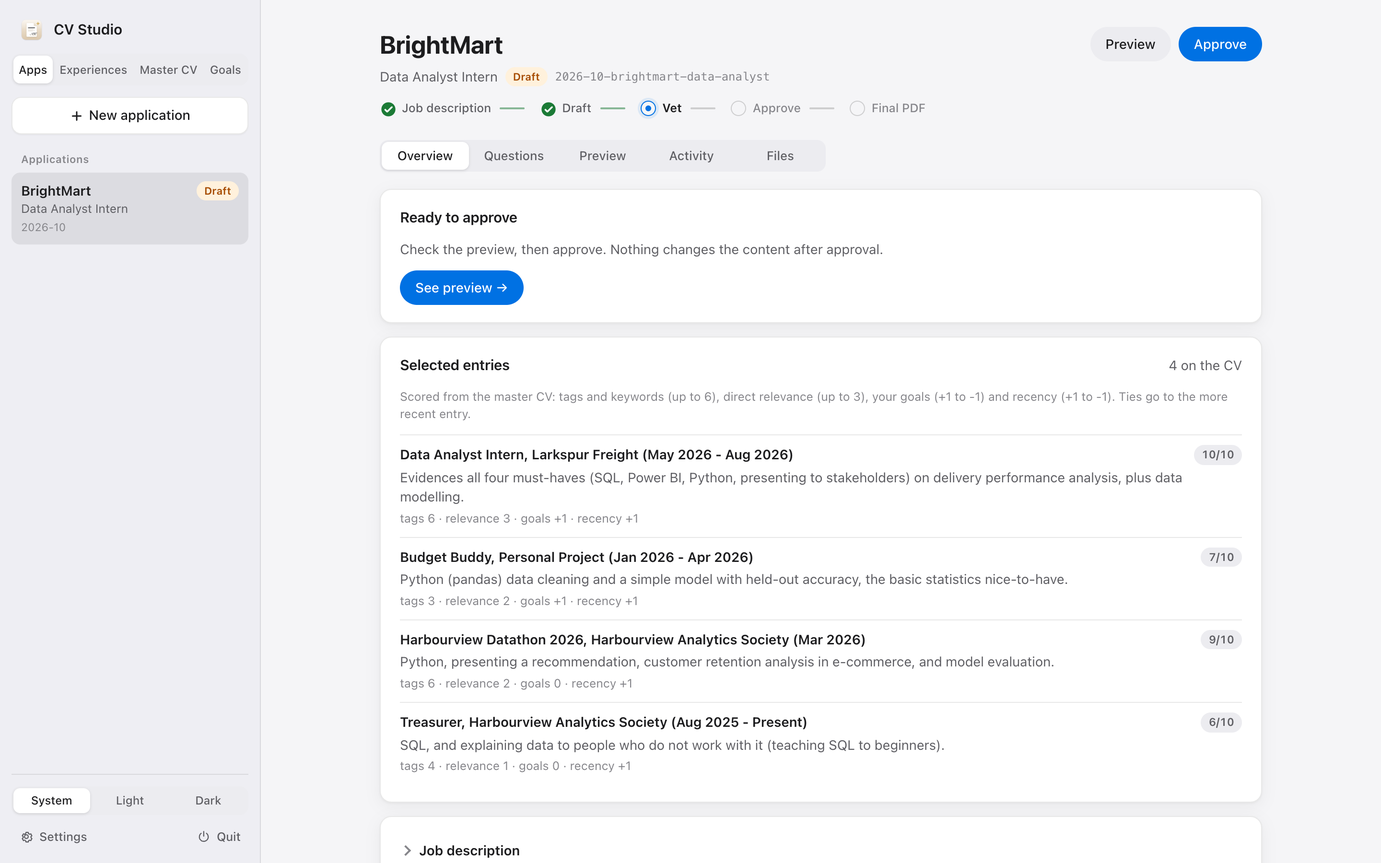
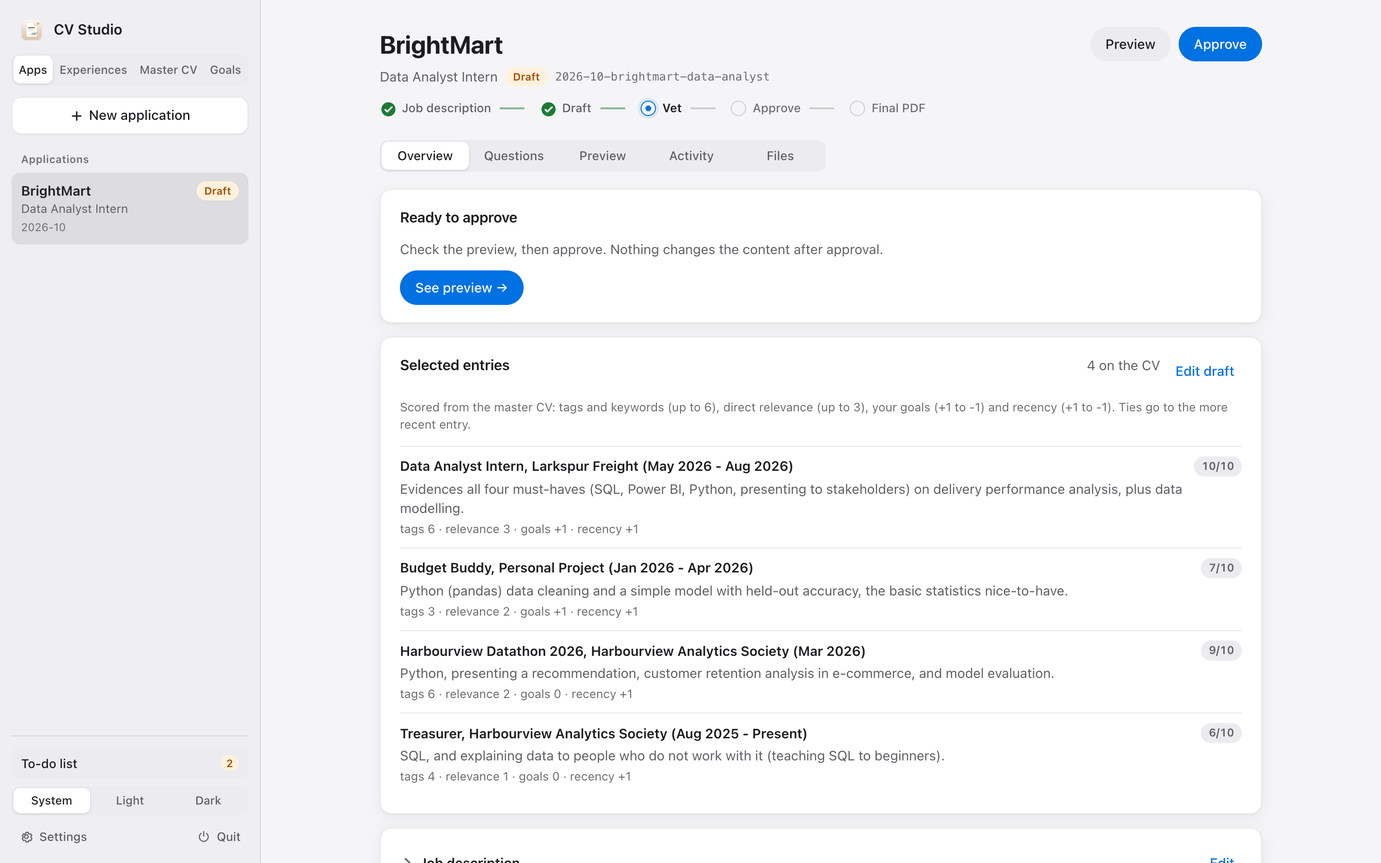
CV Studio: clarity pass
Plain names on run buttons (Draft my CV, Update CV entry), with the
agent named in a tooltip. An agent's final message shows as a short
list, the raw text one click away. Every label explains itself on
hover, and the sidebar uses the master CV's section names. Finishing an
interview with nothing answered offers to just close it. A new user is
sent to add an experience first, and an application can't be created
on an empty master CV. Unknown links say so, the offline banner has Try
now, the shortcut hint matches the keyboard, and grey text, primary
buttons and the download button pass contrast. Screenshots retaken.

diff --git a/tools/ui/app.js b/tools/ui/app.js
@@ -24,6 +24,7 @@ const EXP_STATE = {
   updated: ["Update to curate", "draft"],   // in the master CV, but the notes changed since
 };
 const CHANGE_RE = /^Change requested in (UI|chat)$/;
+const MOD = /Mac|iPhone|iPad/.test(navigator.platform) ? "⌘↩" : "Ctrl+Enter";
 
 let apps = [];
 let active = {};
@@ -133,6 +134,24 @@ async function backOnline() {
   toast("Reconnected to CV Studio", { type: "ok" });
   await loadList().catch(() => {});
   if (current) reopen(current).catch(() => {});
+}
+
+/* ---------- what an agent said, readable ---------- */
+
+const SAID = { "interview.md": "Interview record", "index.md": "Notes", "thin": "Still thin", "closes": "Closes", "tracker": "Added to your to-do list",
+  "master-cv.md": "Master CV", "quantify?": "Needs numbers", "new tags": "New tags", "skipped": "Skipped", "open": "Question for you",
+  "proposal": "Proposal", "changed": "Changed", "kept": "Kept", "not done": "Not done", "extraction.md": "Draft", "questions": "Questions" };
+
+/** An agent's final message: its "label: value" lines as a short list (dropping the "none" ones), the full text under a toggle. */
+function agentSaid(message) {
+  const rows = [];
+  for (const line of (message || "").split("\n")) {
+    const m = line.match(/^\s*([A-Za-z.?\- ]{2,24}):\s*(.+)$/);
+    if (m && !/^none\b/i.test(m[2].trim())) rows.push([SAID[m[1].trim().toLowerCase()] || m[1].trim(), m[2].trim()]);
+  }
+  const raw = el("details", { class: "raw-said" }, el("summary", { text: "Show exactly what the agent wrote" }), el("pre", { class: "said", text: message }));
+  if (!rows.length) return el("div", {}, el("pre", { class: "said", text: message }));
+  return el("div", {}, el("dl", { class: "said-table" }, ...rows.flatMap(([k, v]) => [el("dt", { text: k }), el("dd", {}, inline(v))])), raw);
 }
 
 /* ---------- toasts, dialogs, busy buttons ---------- */
@@ -351,7 +370,7 @@ function headerActions(d, running) {
   const ext = d.extraction;
   const out = [];
   if (d.state === "jd only") {
-    out.push(el("button", { class: "btn primary", disabled: running, onclick: (e) => runAction("extract", {}, e.currentTarget, "Starting…") }, "Run extractor"));
+    out.push(el("button", { class: "btn primary", disabled: running, title: "The extractor reads the job description and your master CV and drafts a tailored CV with questions for you. A few minutes.", onclick: (e) => runAction("extract", {}, e.currentTarget, "Starting…") }, "Draft my CV"));
   }
   if (d.state === "draft") {
     out.push(el("button", { class: "btn", disabled: running, onclick: (e) => runAction("preview", {}, e.currentTarget, "Rendering…", "preview") }, "Preview"));
@@ -487,8 +506,8 @@ function resultCard(job) {
     icon = svg(ICON.check, "res-icon ok");
     title = k.done;
     sub = `Finished in ${fmtTime(job.ended - job.started)}`;
-    if (job.result && job.result.interviewer) body.push(el("pre", { class: "said", text: job.result.interviewer }));
-    if (job.result && job.result.message) body.push(el("pre", { class: "said", text: job.result.message }));
+    if (job.result && job.result.interviewer) body.push(agentSaid(job.result.interviewer));
+    if (job.result && job.result.message) body.push(agentSaid(job.result.message));
     if (job.result && job.result.new_tags) body.push(el("div", { class: "banner warn" }, el("div", { class: "grow", text: `New tag added to CLAUDE.md: ${job.result.new_tags}. Keep it, or Undo the change to veto it.` })));
     if (job.result && job.result.dropped && job.result.dropped.length) {
       body.push(el("div", { class: "hint", text: `To fit one page, ${job.result.dropped.length} bullet${job.result.dropped.length > 1 ? "s were" : " was"} trimmed: ${job.result.dropped.map((x) => `${x.entry} (“${x.bullet.split(" ").slice(0, 6).join(" ")}…”)`).join("; ")}.` }));
@@ -564,7 +583,7 @@ function viewOverview() {
   if (d.state === "jd only" && !running) {
     next = emptyState("Ready to draft your CV",
       "The extractor reads this job description and your master CV, then drafts a tailored CV with questions for you. It runs on your Claude login and takes a few minutes.",
-      el("button", { class: "btn primary", onclick: (e) => runAction("extract", {}, e.currentTarget, "Starting…") }, "Run extractor"));
+      el("button", { class: "btn primary", title: "The extractor reads the job description and your master CV and drafts a tailored CV with questions for you. A few minutes.", onclick: (e) => runAction("extract", {}, e.currentTarget, "Starting…") }, "Draft my CV"));
   } else if (d.state === "draft") {
     next = el("div", { class: "card next" }, el("h3", { text: ext.unticked ? `${ext.unticked} question${ext.unticked > 1 ? "s" : ""} for you` : "Ready to approve" }),
       el("p", { class: "muted", text: ext.unticked ? "Answer them in your own words. The extractor applies your answers and checks every citation again." : "Check the preview, then approve. Nothing changes the content after approval." }),
@@ -707,8 +726,8 @@ function selectedCard(ext) {
   });
   const canEdit = detail.state === "draft" && !(detail.job && detail.job.status === "running");
   return el("div", { class: "card" }, el("div", { class: "card-head" }, el("h3", { text: "Selected entries" }),
-      el("span", { class: "muted", text: `${entries.length} on the CV` }),
-      canEdit ? el("button", { class: "text-btn", onclick: () => { draftEditing[detail.slug] = true; renderMain(); } }, "Edit draft") : null),
+      el("div", { class: "row-actions" }, el("span", { class: "muted", text: `${entries.length} on the CV` }),
+        canEdit ? el("button", { class: "text-btn", onclick: () => { draftEditing[detail.slug] = true; renderMain(); } }, "Edit draft") : null)),
     el("p", { class: "hint", text: "Scored from the master CV: tags and keywords (up to 6), direct relevance (up to 3), your goals (+1 to -1) and recency (+1 to -1). Ties go to the more recent entry." }),
     ...rows);
 }
@@ -759,12 +778,12 @@ function viewQuestions() {
   wrap.append(card);
   if (editable) {
     wrap.append(el("div", { class: "card other" }, el("h3", { text: "Other changes" }),
-      el("div", { class: "hint", text: "Anything else to change on this CV, e.g. \"capitalise National Team\" or \"drop the parser project\"." }),
+      el("div", { class: "hint", text: "Anything else to change on this CV, e.g. \"drop the oldest project\" or \"lead with the dashboard bullet\"." }),
       el("textarea", { "data-q": "other", "data-key": "other", rows: "2", placeholder: "Optional", "aria-label": "Other changes" })));
     const counter = el("span", { class: "hint", id: "answered" });
-    const saved = el("span", { class: "hint saved", id: "draft-saved", text: "Draft saved" });
+    const saved = el("span", { class: "hint saved", id: "draft-saved", text: "Saved in this browser" });
     wrap.append(el("div", { class: "footer-bar" },
-      el("div", { class: "footer-info" }, counter, el("span", { class: "hint kbd", text: "⌘↩ to apply" }), saved),
+      el("div", { class: "footer-info" }, counter, el("span", { class: "hint kbd", text: `${MOD} to apply` }), saved),
       el("button", { class: "btn primary", id: "apply-btn", onclick: (e) => submitAnswers(e.currentTarget) }, "Apply my answers")));
     for (const ta of wrap.querySelectorAll("textarea[data-key]")) {
       ta.value = store.get(draftKey(d.slug, ta.dataset.key)) || "";
@@ -845,7 +864,7 @@ function viewLog() {
   if (!job) return emptyState("Nothing has run yet", "Activity from the extractor and renders appears here.");
   const wrap = el("div", {});
   const r = job.result || {};
-  if (job.status !== "running" && r.message) wrap.append(el("div", { class: "card" }, el("h3", { text: "The extractor said" }), el("pre", { class: "said", text: r.message })));
+  if (job.status !== "running" && r.message) wrap.append(el("div", { class: "card" }, el("h3", { text: "The extractor said" }), agentSaid(r.message)));
   if (r.diff) {
     const diff = el("div", { class: "diff mono" });
     for (const line of r.diff.split("\n")) {
@@ -1179,6 +1198,7 @@ function setupTheme() {
 function setupSettings() {
   const d = $("#settings-dialog"), n = $("#set-notify"), s = $("#set-sound");
   $("#todo-btn").addEventListener("click", () => openTodo());
+  $("#offline-retry").addEventListener("click", async () => { try { await fetch("/api/ping"); backOnline(); } catch (e) { toast("Still not running. Open the CV Studio app, then try again.", { type: "error", sticky: false }); } });
   $("#settings-btn").addEventListener("click", async () => {
     try { const p = await api("/api/settings"); n.checked = p.notify; s.checked = p.sound; s.disabled = !p.notify; } catch (e) { return; }
     d.showModal();
@@ -1201,6 +1221,7 @@ function setupQuit() {
     if (!ok) return;
     try { await api("/api/quit", {}); } catch (e) { /* already gone */ }
     stopPoll();
+    clearInterval(finishStart.timer);
     setDocStatus("idle");
     document.body.replaceChildren(el("div", { class: "stopped" }, el("div", {},
       svg(ICON.doc), el("h1", { text: "CV Studio has stopped" }), el("p", { text: "You can close this tab. Open the CV Studio app to start again." }))));
@@ -1347,12 +1368,16 @@ function shortTitle(t) {
   return ini.length >= 2 && ini.length <= 4 ? ini : words[0] || t;
 }
 
+const EXP_HELP = { stub: "New: not interviewed yet", interviewing: "An interview is open", interviewed: "Interviewed, not in your CV yet. Click Update CV entry",
+  updated: "In your CV, but the notes or details changed since. Click Update CV entry so the CV catches up", condensed: "In your master CV",
+  archived: "Archived: kept, but no tailored CV picks it", planned: "Planned: hasn't started, so it stays off CVs until it's done" };
+
 function expPill(x, running) {
   if (running) return el("span", { class: "pill running" }, el("span", { class: "dot" }), "Working");
   const parent = x.part_of && exps.find((p) => p.slug === x.part_of);
   if (parent && expState(x) === "condensed") return el("span", { class: "pill rendered", title: `Merged into ${parent.title} on your CV` }, `Part of ${shortTitle(parent.title)}`);
-  const [label, cls] = EXP_STATE[expState(x)];
-  return el("span", { class: `pill ${cls}` }, label);
+  const st = expState(x), [label, cls] = EXP_STATE[st];
+  return el("span", { class: `pill ${cls}`, title: EXP_HELP[st] || "" }, label);
 }
 
 const EXP_EMPTY = { "": "No experiences yet.", incv: "Nothing is in your CV yet.", progress: "Nothing is in progress.", planned: "Nothing planned.", archived: "Nothing archived.", notyet: "Everything is in your CV." };
@@ -1367,22 +1392,22 @@ function renderExpList() {
       el("button", { class: "text-btn", type: "button", onclick: () => { for (const k of ["type", "year"]) { expPick[k] = ""; store.set(`cvs-exp-${k}`, ""); } renderExpList(); } }, "Clear filters")));
   } else if (!shown.length) nav.append(el("div", { class: "empty-list", text: EXP_EMPTY[expPick.status] }));
   const groups = [["Experience", (x) => x.section === "Experience"], ["Projects", (x) => x.section === "Projects"],
-                  ["Hackathons and competitions", (x) => (x.section || "").startsWith("Hackathons")],
-                  ["Leadership & activities", (x) => (x.section || "").startsWith("Leadership")],
+                  ["Hackathons and case competitions", (x) => (x.section || "").startsWith("Hackathons")],
+                  ["Leadership & Co-Curricular Activities", (x) => (x.section || "").startsWith("Leadership")],
                   ["Education and other", () => true]];
   if (!expPick.status) groups.unshift(["Needs you", (x) => ["stub", "interviewing", "interviewed", "updated"].includes(expState(x))]);
   const placed = new Set();
   const item = (x, child) => el("button", { class: `app-item${child ? " exp-child" : ""}`, type: "button", "aria-current": String(current === `exp:${x.slug}`), onclick: () => openExp(x.slug) },
-    el("div", { class: "name" }, el("span", { text: x.title }), expPill(x, active[`exp:${x.slug}`])),
-    el("div", { class: "role", text: [x.organisation, expDates(x)].filter(Boolean).join(" · ") }),
-    x.phase === "ongoing" && expState(x) !== "planned" ? el("div", { class: "exp-now", text: "In Progress" }) : null);
+    el("div", { class: "name" }, el("span", { text: x.title, title: x.title }), expPill(x, active[`exp:${x.slug}`])),
+    el("div", { class: "role", text: [x.organisation, expDates(x)].filter(Boolean).join(" · "), title: [x.organisation, expDates(x)].filter(Boolean).join(" · ") }),
+    x.phase === "ongoing" && expState(x) !== "planned" ? el("div", { class: "exp-now", text: "In Progress", title: "Its dates say you're still doing it" }) : null);
   // an experience merged into another entry (style rule 7) sits right under it, unless a filter hid the parent
   const children = (p) => shown.filter((x) => x.part_of === p.slug);
   const nested = new Set(shown.filter((x) => x.part_of && shown.some((p) => p.slug === x.part_of)).map((x) => x.slug));
   for (const [name, test] of groups) {
     const items = shown.filter((x) => !placed.has(x.slug) && !nested.has(x.slug) && test(x));
     if (!items.length) continue;
-    nav.append(el("div", { class: "group-label", text: name }));
+    nav.append(el("div", { class: "group-label", text: name, title: name === "Needs you" ? "Not interviewed yet, mid-interview, or not in your CV yet" : "" }));
     for (const x of items) {
       placed.add(x.slug);
       nav.append(item(x, false));
@@ -1469,7 +1494,7 @@ function renderExp({ fade = false } = {}) {
   if (!d.interview.open && !running) {
     if (f.status === "stub") actions.push(el("button", { class: "btn primary", onclick: (e) => startInterview(e.currentTarget) }, "Start interview"));
     else {
-      if (f.status === "interviewed") actions.push(el("button", { class: "btn primary", onclick: (e) => expAction("curate", {}, e.currentTarget, "Starting…") }, "Run curator"));
+      if (f.status === "interviewed") actions.push(el("button", { class: "btn primary", title: "The curator writes this experience's master CV entry from your notes. About 2 minutes, then you Keep or Undo.", onclick: (e) => expAction("curate", {}, e.currentTarget, "Starting…") }, "Update CV entry"));
       actions.push(el("button", { class: f.status === "interviewed" ? "btn" : "btn primary", onclick: () => openUpdate() }, "Update"));
     }
   }
@@ -1511,7 +1536,7 @@ function expOverview() {
       el("div", { class: "chips" }, ...m.tags.map((x) => el("span", { class: "chip", text: x }))),
       entryControls(d))
     : el("div", { class: "card next" }, el("h3", { text: "Not in your master CV yet" }),
-      el("p", { class: "muted", text: d.front.status === "stub" ? "Start the interview. When you finish, the curator writes the entry and you review it." : "Run the curator to write this entry from your notes." }));
+      el("p", { class: "muted", text: d.front.status === "stub" ? "Start the interview. When you finish, the curator writes the entry and you review it." : "Click Update CV entry and the curator writes it from your notes." }));
   const tracker = d.tracker.length ? el("div", { class: "card" }, el("h3", { text: "Waiting on you" }),
     ...d.tracker.map((r) => el("div", { class: "track-row" }, el("div", { class: "grow" },
       el("div", { class: "hint", text: r.section }), el("div", { text: r.cells.filter((c) => c !== d.slug).join(" · ") })),
@@ -1822,7 +1847,7 @@ function expInterview() {
         const canNext = rounds.length < iv.max_rounds && !lastRes.nothing_more;
         const counter = el("span", { class: "hint", id: "answered" });
         wrap.append(el("div", { class: "footer-bar" },
-          el("div", { class: "footer-info" }, counter, el("span", { class: "hint kbd", text: "⌘↩ next round" }), el("span", { class: "hint saved", id: "draft-saved", text: "Draft saved" })),
+          el("div", { class: "footer-info" }, counter, el("span", { class: "hint kbd", text: `${MOD} next round` }), el("span", { class: "hint saved", id: "draft-saved", text: "Saved in this browser" })),
           el("div", { class: "row-actions" },
             canNext ? el("button", { class: "btn", id: "next-btn", onclick: (e) => submitRound("next", e.currentTarget) }, "Next round") : null,
             el("button", { class: "btn primary", id: "finish-btn", onclick: (e) => submitRound("finish", e.currentTarget) }, "Finish"))));
@@ -1879,6 +1904,13 @@ async function submitRound(verb, btn) {
   }
   if (verb === "next" && !Object.keys(answers).length && !other) { toast("Type at least one answer first, or click Finish."); return; }
   if (verb === "finish") {
+    const o = expDetail.interview.open;
+    const anything = Object.keys(answers).length || other || o.rounds.some((r) => r.questions.some((q) => q.answers.length || (q.ticked && !q.outcomes.some((x) => /^skipped/.test(x)))));
+    if (!anything) {   // finishing with nothing said would mark it interviewed and run the curator on old notes
+      const v = await chooseBox("Nothing answered yet", "Finishing now marks this experience interviewed and asks the curator to write its CV entry from the notes it already has. If you just want to stop, close the interview instead.", "Finish anyway", "Close the interview");
+      if (v === "alt") return cancelInterview(btn, false);
+      if (v !== "yes") return;
+    }
     const unanswered = boxes.filter((t) => t.dataset.q !== "other" && !t.value.trim()).length;
     const ok = await confirmBox("Finish the interview?",
       `Your answers are recorded in your notes${unanswered ? `, ${unanswered} unanswered question${unanswered > 1 ? "s go" : " goes"} to Open questions` : ""}, the experience is marked interviewed, and the curator updates your master CV. About 2 to 4 minutes. You review the change before it's kept.`,
@@ -1903,8 +1935,8 @@ async function skipQuestion(index, btn) {
   catch (e) { if (e.status === 409) openExp(expDetail.slug); }
 }
 
-async function cancelInterview(btn) {
-  const ok = await confirmBox("Cancel this interview?", "The interview closes without running the curator. Answers already recorded stay in your notes. Unanswered questions are dropped.", "Cancel interview");
+async function cancelInterview(btn, ask = true) {
+  const ok = !ask || await confirmBox("Cancel this interview?", "The interview closes without running the curator. Answers already recorded stay in your notes. Unanswered questions are dropped.", "Cancel interview");
   if (!ok) return;
   try { await busy(btn, "Closing…", () => api(`/api/exp/${encodeURIComponent(expDetail.slug)}/cancel`, {})); tab[current] = "overview"; await openExp(expDetail.slug); loadList(); }
   catch (e) { /* toast shown */ }
@@ -1996,8 +2028,8 @@ function viewActivity(job) {
   const who = { ask: "The interviewer", next: "The interviewer", finish: "The curator", curate: "The curator", refresh: "The curator",
                 goals: "The goals drafter" }[job.kind] || "It";
   if (job.status !== "running") {
-    if (r.interviewer) wrap.append(el("div", { class: "card" }, el("h3", { text: "The interviewer said" }), el("pre", { class: "said", text: r.interviewer })));
-    if (r.message) wrap.append(el("div", { class: "card" }, el("h3", { text: `${who} said` }), el("pre", { class: "said", text: r.message })));
+    if (r.interviewer) wrap.append(el("div", { class: "card" }, el("h3", { text: "The interviewer said" }), agentSaid(r.interviewer)));
+    if (r.message) wrap.append(el("div", { class: "card" }, el("h3", { text: `${who} said` }), agentSaid(r.message)));
   }
   if (job.status === "running") return el("div", {}, el("p", { class: "hint", text: "The live log is in the panel above (Show full log)." }));
   const log = el("div", { class: "log mono" });
@@ -2206,7 +2238,9 @@ function renderMaster({ fade = false } = {}) {
       el("div", { class: "sub" }, el("span", { text: `${inCv} entries · ${m.experiences.filter((x) => x.archived).length} archived · ${m.experiences.length} experiences` }),
         m.review ? el("span", { class: "pill draft" }, "Review waiting") : null)),
     el("div", { class: "actions" },
-      el("button", { class: "btn", disabled: running || !!m.review, title: m.review ? "Keep or Undo the waiting change first" : "Re-rank after editing goals.md", onclick: (e) => masterAction("refresh", e.currentTarget) }, "Refresh ranking"),
+      el("button", { class: "btn", disabled: running || !!m.review || !m.experiences.some((x) => x.in_master),
+        title: m.review ? "Keep or Undo the waiting change first" : !m.experiences.some((x) => x.in_master) ? "Add an experience first: there's nothing to rank yet" : "Re-rank after editing goals.md",
+        onclick: (e) => masterAction("refresh", e.currentTarget) }, "Refresh ranking"),
       el("button", { class: "btn primary", onclick: () => openNewExp() }, "New experience")));
   const tabs = [["cv", "CV"], ["tags", "Tags"], ["history", "History"], ["log", "Activity"], ["changes", "Changes", m.review ? "•" : 0]];
   const seg = el("div", { class: "segmented tabs", role: "tablist" },
@@ -2383,7 +2417,7 @@ function goalsEditor() {
       el("p", { class: "hint", text: "Keep the headings and the <!-- hints -->: the curator and extractor look for Target roles, What to lead with and What to demote." }),
       ta),
     el("div", { class: "footer-bar" },
-      el("div", { class: "footer-info" }, status, el("span", { class: "hint kbd", text: "⌘↩ review" }), el("span", { class: "hint saved", id: "draft-saved", text: "Draft saved" })),
+      el("div", { class: "footer-info" }, status, el("span", { class: "hint kbd", text: `${MOD} review` }), el("span", { class: "hint saved", id: "draft-saved", text: "Saved in this browser" })),
       el("div", { class: "row-actions" }, el("button", { class: "text-btn", onclick: cancelGoalsEdit }, "Cancel"), review)));
 }
 
@@ -2589,10 +2623,14 @@ async function start() {
     if (scope === "goals") return finishStart(openGoals());
     if (scope === "exps") return finishStart(openFirstExp());
   }
+  if (want && !apps.some((a) => a.slug === want)) toast(`There's no application called ${want}. Showing another one.`);
   const first = apps.find((a) => a.slug === want) || apps.find((a) => active[a.slug]) || apps.find((a) => a.state === "draft") || apps[0];
   if (first) openApp(first.slug);
-  else main.replaceChildren(el("div", { class: "main-inner enter" }, emptyState("No applications yet", "Paste a job description to draft your first tailored CV.",
-    el("button", { class: "btn primary", onclick: () => $("#new-btn").click() }, "New application"))));
+  else main.replaceChildren(el("div", { class: "main-inner enter" }, (exps.some((x) => x.in_master)
+    ? emptyState("No applications yet", "Paste a job description to draft your first tailored CV.",
+        el("button", { class: "btn primary", onclick: () => $("#new-btn").click() }, "New application"))
+    : emptyState("Start with your experiences", "A tailored CV is picked from your master CV, which is empty for now. Add an experience on the Experiences tab, answer a few questions about it, and come back with a job description.",
+        el("button", { class: "btn primary", onclick: () => setScope("exps") }, "Add an experience")))));
   finishStart();
 }
 
@@ -2607,7 +2645,7 @@ function finishStart(p) {
     else if (h.startsWith("exp/") && current !== `exp:${h.slice(4)}`) openExp(h.slice(4));
     else if (h && h !== current && apps.some((a) => a.slug === h)) openApp(h);
   });
-  setInterval(() => { if (!document.hidden && !offline) loadList().catch(() => {}); }, 8000);
+  finishStart.timer = setInterval(() => { if (!document.hidden && !offline) loadList().catch(() => {}); }, 8000);
   return p;
 }
 

diff --git a/tools/ui/style.css b/tools/ui/style.css
@@ -10,7 +10,7 @@
   --selected: rgba(0, 0, 0, 0.075);
   --text: #1d1d1f;
   --text-2: #5f5f64;
-  --text-3: #86868b;
+  --text-3: #6e6e73;   /* 4.6:1 on white, readable at small sizes */
   --border: rgba(0, 0, 0, 0.09);
   --border-strong: rgba(0, 0, 0, 0.16);
   --accent: #0071e3;
@@ -48,6 +48,7 @@
     --accent: #0a84ff;
     --accent-hover: #2a94ff;
     --accent-text: #ffffff;
+    --accent-fill: #0066cc;
     --accent-soft: rgba(10, 132, 255, 0.16);
     --focus: rgba(10, 132, 255, 0.6);
     --amber: #ffb340;   --amber-bg: rgba(255, 159, 10, 0.16);
@@ -79,6 +80,7 @@
   --accent: #0a84ff;
   --accent-hover: #2a94ff;
   --accent-text: #ffffff;
+  --accent-fill: #0066cc;
   --accent-soft: rgba(10, 132, 255, 0.16);
   --focus: rgba(10, 132, 255, 0.6);
   --amber: #ffb340;   --amber-bg: rgba(255, 159, 10, 0.16);
@@ -167,9 +169,9 @@ nav#app-list { flex: 1; overflow-y: auto; min-height: 0; }
 }
 .btn:hover:not(:disabled) { filter: brightness(0.97); }
 .btn:active:not(:disabled) { transform: scale(0.98); }
-.btn.primary { background: var(--accent); color: var(--accent-text); }
+.btn.primary { background: var(--accent-fill, var(--accent)); color: var(--accent-text); }
 .btn.primary:hover:not(:disabled) { background: var(--accent-hover); filter: none; }
-.btn.green { background: #1f9d48; color: #fff; }
+.btn.green { background: #15803d; color: #fff; }
 .btn:disabled { opacity: .45; cursor: not-allowed; }
 .text-btn { background: none; border: 0; color: var(--accent); cursor: pointer; padding: 6px 8px; border-radius: 8px; font-weight: 500; }
 .text-btn:hover { background: var(--accent-soft); }
@@ -657,7 +659,7 @@ textarea.editor { width: 100%; min-height: 60vh; font: 13px/1.55 ui-monospace, "
 .todo-cells .k { font-size: 11px; text-transform: uppercase; letter-spacing: .04em; color: var(--text-3); }
 .todo-row .row-actions { justify-content: flex-start; }
 .todo-row input, .todo-row textarea { font: inherit; width: 100%; padding: 7px 9px; border: 1px solid var(--border); border-radius: 8px; background: var(--surface); color: var(--text); }
-.q .skip { margin-top: 4px; }
+.q .skip { grid-column: 2; justify-self: start; margin-top: 4px; }   /* under the answer box, not in the number column */
 .entry-tools { margin-top: 10px; flex-wrap: wrap; }
 .bullet-rows { display: grid; gap: 12px; margin: 12px 0; }
 .bullet-row { display: grid; gap: 6px; padding: 10px; border: 1px solid var(--border); border-radius: 10px; }
@@ -678,3 +680,12 @@ textarea.editor { width: 100%; min-height: 60vh; font: 13px/1.55 ui-monospace, "
 .inline-field select { font: inherit; padding: 5px 8px; border: 1px solid var(--border); border-radius: 8px; background: var(--surface); color: var(--text); }
 .b-meta1 { display: grid; grid-template-columns: auto 1fr; align-items: center; gap: 8px; font-size: 12px; color: var(--text-2); }
 textarea.wide { width: 100%; font: inherit; padding: 8px 10px; border: 1px solid var(--border); border-radius: 8px; background: var(--surface); color: var(--text); }
+
+/* ---------- clarity pass ---------- */
+.said-table { display: grid; grid-template-columns: max-content 1fr; gap: 6px 14px; margin: 8px 0; font-size: 13.5px; }
+.said-table dt { color: var(--text-3); }
+.said-table dd { margin: 0; }
+details.raw-said { margin-top: 6px; font-size: 12.5px; }
+details.raw-said summary { cursor: pointer; color: var(--text-3); }
+@media (prefers-color-scheme: dark) { :root:not([data-theme="light"]) .pdf-frame { background: var(--surface-2); } }
+:root[data-theme="dark"] .pdf-frame { background: var(--surface-2); }

diff --git a/tools/ui/index.html b/tools/ui/index.html
@@ -12,6 +12,7 @@
 <div class="offline" id="offline" role="alert" hidden>
   <span class="spinner small"></span>
   <span><strong>CV Studio isn't running.</strong> Open the CV Studio app again. This page reconnects by itself.</span>
+  <button type="button" class="text-btn" id="offline-retry">Try now</button>
 </div>
 <div class="app">
   <aside class="sidebar">

diff --git a/tools/mastercv.py b/tools/mastercv.py
@@ -170,3 +170,8 @@ def set_bullets(md: str, slug: str, bullets, who: str, today: date = None) -> st
     block = with_pin(block, "bullets", who, today)
     out = lines[:b["start"]] + block + lines[b["end"]:]
     return "\n".join(out).rstrip("\n") + "\n"
+
+
+def entry_count(md: str) -> int:
+    """Entries a CV can be drafted from: everything outside Header, Skills and Archive."""
+    return sum(1 for b in _parse(md.splitlines())[1] if b["section"] not in ("Header", "Skills", "Archive"))

diff --git a/tools/ui.py b/tools/ui.py
@@ -794,6 +794,8 @@ def detail(app: Path):
 
 
 def create_app(body):
+    if not mc.entry_count(e.MASTER.read_text() if e.MASTER.exists() else ""):
+        raise Refused(409, "your master CV has no entries yet, so there's nothing to tailor. Add an experience first (Experiences tab)")
     company, role, jd = (body.get(k, "").strip() for k in ("company", "role", "jd"))
     if not (company and role and jd):
         raise Refused(400, "company, role and the job description are all needed")

diff --git a/docs/USING.md b/docs/USING.md
@@ -50,7 +50,7 @@ You can also change things yourself, without an agent run:
 - **Archive** moves the entry out of your CV with a short reason, and **Move back to CV** reverses it. Both show you the change first, with Keep or Undo.
 - In an interview, **Skip this question** drops a question you don't want to answer, and **Cancel interview** closes it without running the curator.
 
-If you change the notes or details of something already in your CV, it reads **Update to curate** until you run the curator. That way your CV never quietly falls behind your notes.
+If you change the notes or details of something already in your CV, it reads **Update to curate** until you click **Update CV entry** and the curator catches the entry up. That way your CV never quietly falls behind your notes.
 
 In chat, the same loop is `/curate add`, `/curate update <slug>`, or `/curate backfill` to start from an old CV in `seed/`.
 
@@ -72,7 +72,7 @@ The **History** tab keeps your master CV as it was before each change you kept. 
 
 ## 3. Apply for a job
 
-Click **New application**, paste the job description, and give the company and role. CV Studio creates `applications/<yyyy-mm>-<company>-<role>/` and starts the extractor. It takes two or three minutes.
+Click **New application**, paste the job description, and give the company and role. (You need at least one experience in your master CV first. On a brand-new setup, CV Studio sends you there.) CV Studio creates `applications/<yyyy-mm>-<company>-<role>/` and starts the extractor. It takes two or three minutes.
 
 The extractor scores each master CV entry against the job, keeps the strongest, reads only their notes, and writes `extraction.md`. Every bullet ends with a citation like `(source: experiences/larkspur-analytics-intern/index.md L21, L41)`.
 
